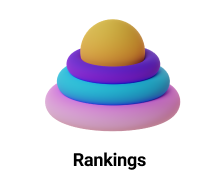
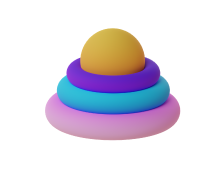
push code

Changed region(s): [[0.1918, 0.0872, 0.8219, 0.814], [0.3288, 0.8721, 0.6849, 0.9884]]

diff --git a/src/screens/RankingScreen/index.js b/src/screens/RankingScreen/index.js
@@ -1,11 +1,47 @@
 import React from 'react';
-import {View, Text} from 'react-native';
+import { View, Text, Image, FlatList } from 'react-native';
+import UserRankingItem from '../../components/UserRankingItem';
 import styles from './styles';
+const image = require('../../../assets/images/Saly-20.png');
+
+const portfolioCoins = [
+    {
+        id: '1',
+        name: 'Virtual Dollar',
+        image: 'https://seeklogo.com/images/B/bitcoin-logo-DDAEEA68FA-seeklogo.com.png?v=637807857020000000',
+        netWorth: 60420,
+    },
+    {
+        id: '2',
+        name: 'Bitcoin',
+        image: 'https://seeklogo.com/images/B/bitcoin-logo-DDAEEA68FA-seeklogo.com.png?v=637807857020000000',
+        netWorth: 42420,
+    },
+    {
+        id: '3',
+        name: 'Ethereum',
+        image: 'https://seeklogo.com/images/B/bitcoin-logo-DDAEEA68FA-seeklogo.com.png?v=637807857020000000',
+        netWorth: 30420,
+    },
+];
 
 const RankingScreen = (props) => {
     return (
         <View style={styles.container}>
-            <Text>I am RankingScreen</Text>
+            <FlatList
+                style={{ width: '100%' }}
+                data={portfolioCoins}
+                renderItem={({ item, index }) => <UserRankingItem user={item} place={index +1} />}
+                ListFooterComponentStyle={{ alignItems: 'center' }}
+                ListHeaderComponent={() => (
+                    <>
+                        <Image style={styles.image} source={image} />
+                        <View style={styles.balanceContainer}>
+                            <Text style={styles.title}>Ranking board</Text>
+                        </View>
+                    </>
+                )}
+            />
         </View>
     );
 };

diff --git a/src/screens/MarketScreen/index.js b/src/screens/MarketScreen/index.js
@@ -1,6 +1,6 @@
 import React from 'react';
 import { View, Text, Image, FlatList } from 'react-native';
-import MarketCoin from '../../component/MarketCoin';
+import MarketCoin from '../../components/MarketCoin';
 import styles from './styles';
 const image = require('../../../assets/images/Saly-17.png');
 
@@ -43,8 +43,7 @@ const MarketScreen = (props) => {
                     <>
                         <Image style={styles.image} source={image} />
                         <View style={styles.balanceContainer}>
-                            <Text style={styles.title}>Portfolio balance</Text>
-                            <Text style={styles.balance}>$60.420</Text>
+                            <Text style={styles.title}>Market</Text>
                         </View>
                     </>
                 )}

diff --git a/src/components/UserRankingItem/styles.js b/src/components/UserRankingItem/styles.js
@@ -1,0 +1,40 @@
+import {StyleSheet} from 'react-native';
+
+const styles = StyleSheet.create({
+    container: { 
+        flexDirection: 'row',
+        justifyContent: 'space-between',
+        margin: 10,
+    },
+    image: {
+        height: 50,
+        width: 50,
+        marginRight: 10,
+    },
+    left: {
+        flexDirection: 'row',
+        alignItems: 'center',
+    },
+    place: {
+        fontSize: 18,
+        width: 30,
+    },
+    name: {
+        color: '#000',
+        fontWeight: 'bold',
+        marginBottom: 5,
+    },
+    symbol: {
+        color: '#6b6b6b',
+    },
+    right: {
+        alignItems: 'flex-end',
+    },
+    value: {
+        color: '#000',
+        fontSize: 18,
+        fontWeight: 'bold',
+    }
+});
+
+export default styles;

diff --git a/src/components/UserRankingItem/index.js b/src/components/UserRankingItem/index.js
@@ -1,0 +1,23 @@
+import React from 'react';
+import { View, Text, Image } from 'react-native';
+import styles from './styles';
+
+const UserRankingItem = ({ user, place }) => {
+    const { image, name, netWorth } = user;
+    return (
+        <View style={styles.container}>
+            <View style={styles.left}>
+                <Text style={styles.place}>{place}</Text>
+                <Image style={styles.image} source={{ uri: image }} />
+                <View>
+                    <Text style={styles.name}>{name}</Text>
+                </View>
+            </View>
+            <View style={styles.right}>
+                <Text style={styles.value}>{netWorth}</Text>
+            </View>
+        </View>
+    );
+};
+
+export default UserRankingItem;

diff --git a/src/screens/RankingScreen/styles.js b/src/screens/RankingScreen/styles.js
@@ -1,10 +1,25 @@
-import {StyleSheet} from 'react-native';
+import { StyleSheet } from 'react-native';
 
 const styles = StyleSheet.create({
-    container: { 
-        flex:1,
+    container: {
+        flex: 1,
         alignItems: 'center',
-        justifyContent: 'center',
+        padding: 10,
+        backgroundColor: '#fff',
+    },
+    balanceContainer: {
+        width: '100%',
+        alignItems: 'center',
+    },
+    title: {
+        fontSize: 26,
+        color: '#000',
+        fontWeight: 'bold',
+    },
+    image: {
+        height: 150,
+        resizeMode: 'contain',
+        alignSelf: 'center',
     },
 });
 

diff --git a/src/screens/MarketScreen/styles.js b/src/screens/MarketScreen/styles.js
@@ -9,17 +9,12 @@ const styles = StyleSheet.create({
     },
     balanceContainer: {
         width: '100%',
-        marginVertical: 20,
+        alignItems: 'center',
     },
     title: {
-        fontSize: 18,
-        color: '#777777',
-        fontWeight: 'bold',
-    },
-    balance: {
-        fontSize: 30,
-        fontWeight: 'bold',
+        fontSize: 26,
         color: '#000',
+        fontWeight: 'bold',
     },
     image: {
         height: 150,

diff --git a/src/screens/PortfolioScreen/index.js b/src/screens/PortfolioScreen/index.js
@@ -1,6 +1,6 @@
 import React from 'react';
 import { View, Text, Image, FlatList } from 'react-native';
-import PortfolioCoin from '../../component/PortfolioCoin';
+import PortfolioCoin from '../../components/PortfolioCoin';
 import styles from './styles';
 const image = require('../../../assets/images/Saly-10.png');
 
